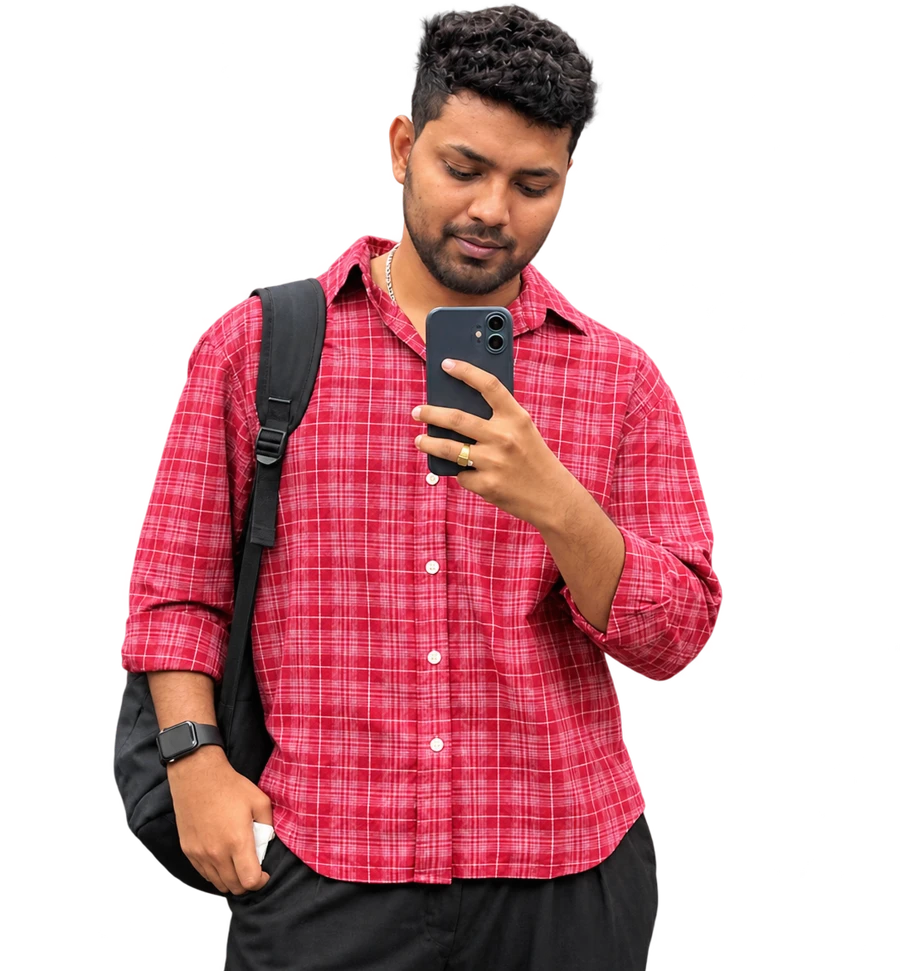
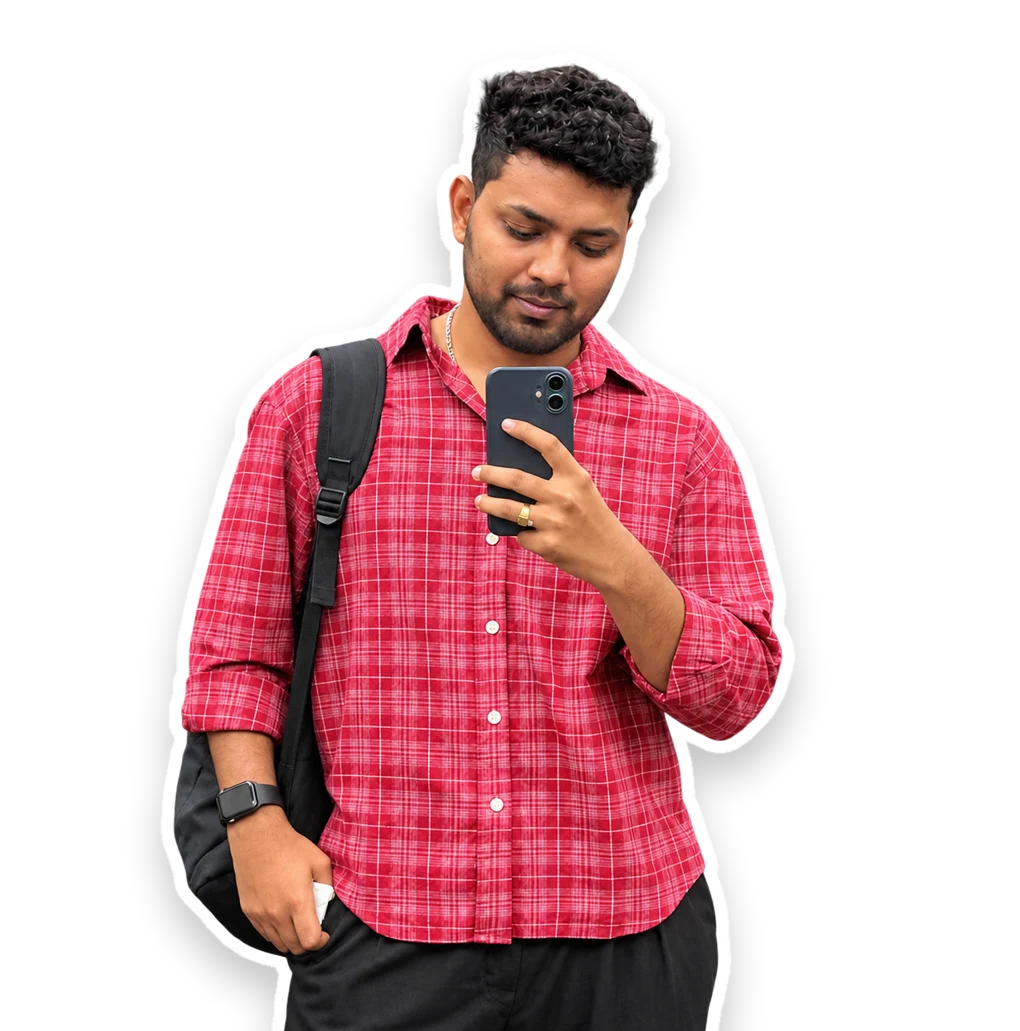
Smoother scrolling: resize 12MP food photos, clip-path zoom (no layout), physics loop sleeps when settled/off-screen, ignore mobile URL-bar resizes, bake sticker outline into photo, drop unused footer spring
Claude-Session: https://claude.ai/code/session_01JfxQuDCeqtqb7Zq9WXLfNo

diff --git a/src/PillDrop.jsx b/src/PillDrop.jsx
@@ -3,7 +3,7 @@ import Matter from 'matter-js';
 
 // Pills fall from above the hero, bounce off the headline's words and pile up on the hero's bottom edge.
 // Drag them to throw them around. `heroRef` = hero section, `textRef` = headline element.
-const { Engine, Bodies, Body, Composite, Constraint, Query } = Matter;
+const { Engine, Bodies, Body, Composite, Constraint, Sleeping } = Matter;
 
 export const PILLS = [
   { t: 'research', bg: ['#e2eeff', '#c4dcff'], fg: '#3a7be8' },
@@ -39,7 +39,7 @@ export default function PillDrop({ heroRef, textRef, reduce }) {
   useEffect(() => {
     const hero = heroRef.current; if (!hero) return undefined;
     const mobile = () => window.innerWidth < 768;
-    let raf = 0; let timer = 0; let engine; let items = []; let alive = true; let drag = null; let onResize;
+    let raf = 0; let timer = 0; let engine; let items = []; let alive = true; let drag = null; let onResize; let wake = () => {}; let io;
 
     const place = () => {
       const W = hero.clientWidth; const H = hero.clientHeight;
@@ -56,7 +56,7 @@ export default function PillDrop({ heroRef, textRef, reduce }) {
         return;
       }
 
-      engine = Engine.create({ gravity: { y: 1.15 } });
+      engine = Engine.create({ gravity: { y: 1.15 }, enableSleeping: true });
       const wall = { isStatic: true, restitution: 0.3, friction: 0.5 };
       const floor = Bodies.rectangle(W / 2, H + 30 - 4, W * 3, 60, wall);
       const left = Bodies.rectangle(-30, H / 2, 60, H * 4, wall);
@@ -78,28 +78,40 @@ export default function PillDrop({ heroRef, textRef, reduce }) {
         return { el, body, w, h, still: 0 };
       });
 
-      let last = performance.now();
+      // pills resting above the headline's bottom edge get nudged through; the pile below is left alone
+      const tb = textRef.current.getBoundingClientRect(); const textBottom = tb.bottom - hero.getBoundingClientRect().top;
+      let last = performance.now(); let running = false; let visible = true;
       const loop = (now) => {
-        if (!alive) return;
+        if (!alive || !visible) { running = false; return; }
         const dt = Math.min(32, now - last); last = now;
         Engine.update(engine, dt);
+        let awake = !!drag;
         items.forEach((it) => {
           const { el, body, w, h } = it;
-          // anti-jam: a pill resting on the text gets a shove so it keeps tumbling down to the floor
-          if (body.position.y < H - h * 1.4 && body.speed < 0.5 && !(drag && drag.c.bodyB === body)) { it.still += dt; if (it.still > 400) { body.collisionFilter.mask = 0xfffd; Body.setVelocity(body, { x: (Math.random() - 0.5) * 3, y: 1 }); Body.setAngularVelocity(body, (Math.random() - 0.5) * 0.15); it.still = 0; } } else it.still = 0;
-          el.style.transform = `translate(${body.position.x - w / 2}px, ${body.position.y - h / 2}px) rotate(${body.angle}rad)`; });
+          if (!body.isSleeping) awake = true;
+          // anti-jam: a pill resting on the text drops through the letters to the floor
+          if (now - start < 9000 && body.position.y < textBottom && body.speed < 0.5 && !(drag && drag.c.bodyB === body)) { awake = true; it.still += dt; if (it.still > 400) { Sleeping.set(body, false); body.collisionFilter.mask = 0xfffd; Body.setVelocity(body, { x: (Math.random() - 0.5) * 3, y: 1 }); Body.setAngularVelocity(body, (Math.random() - 0.5) * 0.15); it.still = 0; } } else it.still = 0;
+          const tx = `translate3d(${(body.position.x - w / 2).toFixed(1)}px, ${(body.position.y - h / 2).toFixed(1)}px, 0) rotate(${body.angle.toFixed(3)}rad)`;
+          if (tx !== it.tx) { el.style.transform = tx; it.tx = tx; }
+        });
+        // everything has come to rest: stop the loop until someone grabs a pill
+        if (!awake && now - start > 2500) { running = false; return; }
         raf = requestAnimationFrame(loop);
       };
-      raf = requestAnimationFrame(loop);
+      const start = performance.now();
+      wake = () => { if (!running && alive && visible) { running = true; last = performance.now(); raf = requestAnimationFrame(loop); } };
+      io = new IntersectionObserver(([e]) => { visible = e.isIntersecting; if (visible) wake(); });
+      io.observe(hero);
+      wake();
 
       // drag with a spring constraint
       const pos = (e) => { const r = hero.getBoundingClientRect(); return { x: e.clientX - r.left, y: e.clientY - r.top }; };
       items.forEach(({ el, body }) => {
         el.onpointerdown = (e) => {
-          e.preventDefault(); el.setPointerCapture(e.pointerId);
+          e.preventDefault(); el.setPointerCapture(e.pointerId); Sleeping.set(body, false);
           const p = pos(e);
           drag = { id: e.pointerId, c: Constraint.create({ pointA: p, bodyB: body, pointB: { x: p.x - body.position.x, y: p.y - body.position.y }, stiffness: 0.12, damping: 0.1, length: 0 }) };
-          Composite.add(engine.world, drag.c); el.style.cursor = 'grabbing'; el.style.zIndex = 50;
+          Composite.add(engine.world, drag.c); el.style.cursor = 'grabbing'; el.style.zIndex = 50; wake();
         };
         el.onpointermove = (e) => { if (drag && drag.id === e.pointerId) drag.c.pointA = pos(e); };
         const up = (e) => { if (drag && drag.id === e.pointerId) { Composite.remove(engine.world, drag.c); drag = null; el.style.cursor = 'grab'; el.style.zIndex = 30; } };
@@ -108,13 +120,15 @@ export default function PillDrop({ heroRef, textRef, reduce }) {
     };
 
     timer = window.setTimeout(place, reduce ? 0 : 1900);
-    onResize = () => { // keep it simple: restart the pile at the new size
-      alive = false; cancelAnimationFrame(raf); window.clearTimeout(timer);
+    let lastW = window.innerWidth;
+    onResize = () => { // restart the pile only when the width really changes (mobile URL bar fires resize on scroll)
+      if (window.innerWidth === lastW) return; lastW = window.innerWidth;
+      alive = false; cancelAnimationFrame(raf); window.clearTimeout(timer); if (io) io.disconnect();
       if (engine) { Composite.clear(engine.world, false); Engine.clear(engine); }
       alive = true; place();
     };
     window.addEventListener('resize', onResize);
-    return () => { alive = false; cancelAnimationFrame(raf); window.clearTimeout(timer); window.removeEventListener('resize', onResize); if (engine) { Composite.clear(engine.world, false); Engine.clear(engine); } };
+    return () => { alive = false; if (io) io.disconnect(); cancelAnimationFrame(raf); window.clearTimeout(timer); window.removeEventListener('resize', onResize); if (engine) { Composite.clear(engine.world, false); Engine.clear(engine); } };
   }, [heroRef, textRef, reduce]);
 
   return (

diff --git a/src/ScatterZoom.jsx b/src/ScatterZoom.jsx
@@ -1,15 +1,15 @@
 import React, { useRef } from 'react';
 import { motion, useScroll, useTransform, useSpring } from 'framer-motion';
-import beach from './assets/photo_beach_full.jpg';
-import lighthouse from './assets/photo_lighthouse.webp';
+import beach from './assets/photo_beach_full-opt.webp';
+import lighthouse from './assets/photo_lighthouse-sm.webp';
 import temple from './assets/photo_temple.webp';
 import cycle from './assets/photo_cycle_full.webp';
 import couple from './assets/photo_couple_full.webp';
-import statue from './assets/photo_statue.webp';
-import breakfast from './assets/photo_breakfast.jpg';
-import f1 from './assets/foodie/foodie-02.jpg';
-import f2 from './assets/foodie/foodie-05.jpg';
-import f3 from './assets/foodie/foodie-08.jpg';
+import statue from './assets/photo_statue-sm.webp';
+import breakfast from './assets/photo_breakfast-opt.webp';
+import f1 from './assets/foodie/foodie-02-sm.webp';
+import f2 from './assets/foodie/foodie-05-sm.webp';
+import f3 from './assets/foodie/foodie-08-sm.webp';
 
 // Telescope-style: small photos scattered on paper, then one of them grows to fill the screen.
 // x/y = centre in vw/vh from the middle; w = width in vw (desktop), mw on mobile.
@@ -45,10 +45,16 @@ export default function ScatterZoom({ onAbout }) {
   const { scrollYProgress } = useScroll({ target: ref, offset: ['start start', 'end end'] });
   const p = useSpring(scrollYProgress, { stiffness: 120, damping: 26, mass: 0.4 });
 
-  // Hero photo grows from a small tile to full-bleed.
-  const w = useTransform(p, [0.08, 0.5], ['min(16vw, 220px)', '100vw']);
-  const h = useTransform(p, [0.08, 0.5], ['min(20vw, 275px)', '100vh']);
-  const radius = useTransform(p, [0.08, 0.5], [6, 0]);
+  // Hero photo grows from a small tile to full-bleed. Animate clip-path on a full-screen layer
+  // (no width/height changes, so the browser never re-lays out the page while scrolling).
+  const grow = useTransform(p, [0.08, 0.5], [0, 1], { clamp: true });
+  const clip = useTransform(grow, (t) => {
+    const vw = window.innerWidth; const vh = window.innerHeight;
+    const w0 = Math.min(vw * 0.16, 220) + 0; const h0 = Math.min(vw * 0.2, 275);
+    const w = w0 + (vw - w0) * t; const h = h0 + (vh - h0) * t;
+    const x = (vw - w) / 2; const y = (vh - h) / 2; const r = 6 * (1 - t);
+    return `inset(${y.toFixed(1)}px ${x.toFixed(1)}px ${y.toFixed(1)}px ${x.toFixed(1)}px round ${r.toFixed(1)}px)`;
+  });
   const imgScale = useTransform(p, [0.5, 1], [1, 1.08]);
   const shade = useTransform(p, [0.4, 0.62], [0, 0.75]);
 
@@ -69,10 +75,7 @@ export default function ScatterZoom({ onAbout }) {
           <span style={{ fontFamily: "'Instrument Serif', Georgia, serif" }}>Off-screen, I collect small moments.</span>
         </motion.p>
 
-        <motion.div
-          className="absolute left-1/2 top-1/2 overflow-hidden z-0"
-          style={{ width: w, height: h, borderRadius: radius, translateX: '-50%', translateY: '-50%' }}
-        >
+        <motion.div className="absolute inset-0 overflow-hidden z-0" style={{ clipPath: clip, WebkitClipPath: clip }}>
           <motion.img src={beach} alt="Yogesh standing on the rocks by the sea" className="w-full h-full object-cover object-[center_35%]" style={{ scale: imgScale }} draggable={false} />
           <motion.div className="absolute inset-0 bg-gradient-to-t from-black via-black/40 to-transparent" style={{ opacity: shade }} />
         </motion.div>

diff --git a/src/SelectedWorks.jsx b/src/SelectedWorks.jsx
@@ -21,7 +21,7 @@ export default function SelectedWorks({ items, sectionRef }) {
             const link = c.locked ? { role: 'button', tabIndex: 0, onClick: c.onClick, onKeyDown: (e) => { if (e.key === 'Enter' || e.key === ' ') { e.preventDefault(); c.onClick(); } } }
               : { href: c.href, onMouseEnter: c.prefetch, onFocus: c.prefetch, onClick: (e) => { if (e.metaKey || e.ctrlKey || e.shiftKey || e.altKey || e.button !== 0) return; e.preventDefault(); c.onClick(); } };
             return (
-              <div key={c.title} className="sticky mb-6 md:mb-10" style={{ top: `calc(84px + ${i * 14}px)` }}>
+              <div key={c.title} className="sticky mb-6 md:mb-10" style={{ top: `calc(84px + ${i * 14}px)`, transform: 'translateZ(0)' }}>
                 <motion.div
                   initial={reduce ? false : { opacity: 0, y: 40 }}
                   whileInView={{ opacity: 1, y: 0 }}
@@ -50,12 +50,12 @@ export default function SelectedWorks({ items, sectionRef }) {
                       {c.shots.length > 1 ? (
                         <div className="absolute inset-0 flex items-end justify-center gap-4 px-6 pt-8">
                           {c.shots.map((s, k) => (
-                            <img key={s} src={s} alt={k === 0 ? `${c.title} preview` : ''} loading="lazy" draggable={false}
-                              className={`block h-[92%] w-auto max-w-[46%] object-contain object-bottom drop-shadow-[0_24px_30px_rgba(0,0,0,0.25)] transition-transform duration-500 group-hover:-translate-y-2 ${k ? 'translate-y-10' : ''}`} />
+                            <img key={s} src={s} alt={k === 0 ? `${c.title} preview` : ''} loading="lazy" decoding="async" draggable={false}
+                              className={`block h-[92%] w-auto max-w-[46%] object-contain object-bottom transition-transform duration-500 group-hover:-translate-y-2 ${k ? 'translate-y-10' : ''}`} />
                           ))}
                         </div>
                       ) : c.shots.length === 1 ? (
-                        <img src={c.shots[0]} alt={`${c.title} preview`} loading="lazy" draggable={false}
+                        <img src={c.shots[0]} alt={`${c.title} preview`} loading="lazy" decoding="async" draggable={false}
                           className="absolute bottom-0 right-0 block w-[94%] max-w-none h-auto rounded-tl-[22px] shadow-[0_24px_40px_-10px_rgba(0,0,0,0.3)] transition-transform duration-500 group-hover:-translate-y-2" />
                       ) : (
                         <div className="absolute inset-0 grid place-items-center"><Lock className="h-14 w-14 text-[#141210]/25" /></div>

diff --git a/src/App.jsx b/src/App.jsx
@@ -466,8 +466,8 @@ import imgMatcha from './assets/e4dbcdd77bc9c13d2de4378af5f748570474120d.webp';
 import imgNote from './assets/65b0d33492ffd94741f4de8fe2d01b44ab5a58c3.png';
 
 // User Uploaded Photos & Custom Postage Stamps (Full resolution edge-to-edge)
-import photoStatue from './assets/photo_statue.webp';
-import photoLighthouse from './assets/photo_lighthouse.webp';
+import photoStatue from './assets/photo_statue-sm.webp';
+import photoLighthouse from './assets/photo_lighthouse-sm.webp';
 import photoTemple from './assets/photo_temple.webp';
 import photoCouple from './assets/photo_couple_full.webp';
 import photoCycle from './assets/photo_cycle_full.webp';
@@ -1027,13 +1027,6 @@ export default function App() {
   // Track window scroll
   const { scrollY, scrollYProgress } = useScroll();
 
-  // Dynamic footer background stretch on final scroll to seamlessly fill gaps behind rounded card corners
-  const footerBgScaleY = useTransform(scrollYProgress, [0.82, 1], [0.96, 1.05]);
-  const smoothFooterBgScaleY = useSpring(footerBgScaleY, {
-    stiffness: 220,
-    damping: 30,
-    mass: 0.2,
-  });
 
   // Lenis owns smoothing; visual transforms track its actual scroll position.
   const smoothScrollY = scrollY;

diff --git a/src/MoreOptions.jsx b/src/MoreOptions.jsx
@@ -5,9 +5,9 @@ import { siYoutube, siInstagram, siAndroid } from 'simple-icons';
 import harish from './assets/spotlights/harish_photo.jpg';
 import purandhar from './assets/spotlights/purandhar_photo.jpg';
 import rishi from './assets/spotlights/rishi_photo.jpg';
-import f1 from './assets/foodie/foodie-02.jpg';
-import f2 from './assets/foodie/foodie-05.jpg';
-import f3 from './assets/foodie/foodie-08.jpg';
+import f1 from './assets/foodie/foodie-02-sm.webp';
+import f2 from './assets/foodie/foodie-05-sm.webp';
+import f3 from './assets/foodie/foodie-08-sm.webp';
 import '@fontsource/instrument-serif/400.css';
 import '@fontsource/instrument-serif/400-italic.css';
 import '@fontsource-variable/inter';

diff --git a/src/Options.jsx b/src/Options.jsx
@@ -1,8 +1,8 @@
 import React, { useState } from 'react';
-import beach from './assets/photo_beach_full.jpg';
+import beach from './assets/photo_beach_full-opt.webp';
 import cycle from './assets/photo_cycle_full.webp';
 import temple from './assets/photo_temple.webp';
-import lighthouse from './assets/photo_lighthouse.webp';
+import lighthouse from './assets/photo_lighthouse-sm.webp';
 import avatar from './assets/photo_yogesh_avatar.webp';
 import troskyHome from './assets/covers/trosky-home.webp';
 import troskyXp from './assets/covers/trosky-xp.webp';

diff --git a/src/AboutPoster.jsx b/src/AboutPoster.jsx
@@ -61,7 +61,7 @@ export default function AboutPoster() {
             viewport={{ once: true, amount: 0 }}
             transition={{ delay: 0.35, type: 'spring', stiffness: 120, damping: 16 }}
             className="relative block h-[97%] w-auto max-w-none"
-            style={{ filter: 'drop-shadow(6px 0 0 #fff) drop-shadow(-6px 0 0 #fff) drop-shadow(0 6px 0 #fff) drop-shadow(0 -6px 0 #fff) drop-shadow(0 18px 24px rgba(0,0,0,0.2))' }}
+            decoding="async"
           />
         </div>
       </div>

diff --git a/src/DeskHero.jsx b/src/DeskHero.jsx
@@ -1,6 +1,6 @@
 import React, { useRef } from 'react';
 import { motion, useReducedMotion } from 'framer-motion';
-import beach from './assets/photo_beach_full.jpg';
+import beach from './assets/photo_beach_full-opt.webp';
 import pCamera from './assets/props/camera.webp';
 import pRayban from './assets/props/rayban.webp';
 
